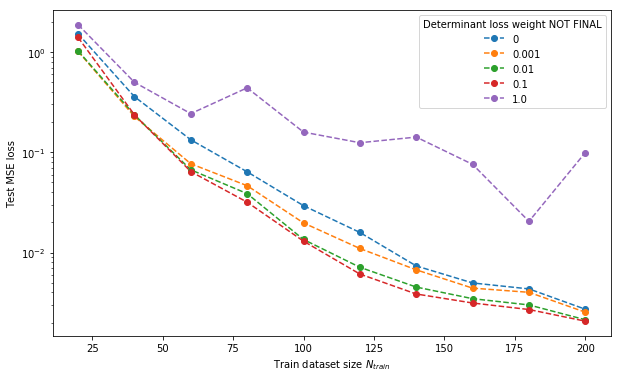
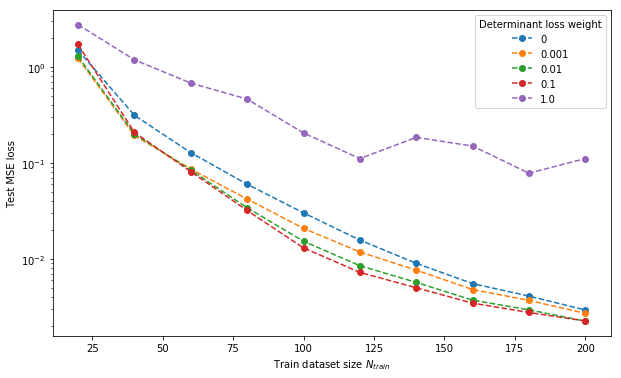
draft

diff --git a/TUM_Thesis/chapters/Results.tex b/TUM_Thesis/chapters/Results.tex
@@ -16,7 +16,7 @@ We can see that while the difference between the behaviours of Model 2 and 3 is 
 
 \subsection{Penalty method}
 \subsubsection{Fixed physical loss weight}
-First, we apply the Penalty Method using a fixed weight $\lambda$ for the determinant physical loss $\mathcal{L}_{DET}$ and therefore only solve a single minimisation problem during the training process. The results obtained by this method performing 50000 epochs on the 2D-Rotation problem are shown in Figure \ref{fig:pnlty_det}.
+First, we apply the Penalty Method using a fixed weight $\lambda$ for the determinant physical loss $\mathcal{L}_{DET}$ and therefore only solve a single minimisation problem during the training process. The results obtained by this method performing $50\,000$ epochs on the 2D-Rotation problem are shown in Figure \ref{fig:pnlty_det}.
 
 \begin{figure}[ht]
 	\includegraphics[width=\linewidth]{pnlty_det}
@@ -50,20 +50,20 @@ When analysing the version of the penalty method where we solve a series of mini
 	\caption{Different weights $\lambda$ for $\mathcal{L}_{DET}$ compared with dynamically increasing $\lambda$, averaged over 10 different training datasets.}
 	\label{fig:pnly_dyn}
 \end{figure}
-In general, we can say that it is difficult to find a successful set of parameters, since we only have an intuition about the initial and last value of $\lambda$. We manually tried several different parameter sets, of which many led to much worse performance than the results shown above. However, we were able to increase performance with the following values: We set $\lambda_0 = 10^{-3}$, $\mu = 1.05$, use 50 iterations and stop the k-th iteration once the norm of the gradient is smaller than $0.95^{k} 10^{-3}$. With this, we get a last weight value of $\lambda_{50} \approx 10^{-2}$. However, since solving a series of minimisation problems with the chosen parameters involves approximately $150k$ iterations, we also compare the results with using the fixed method for $150k$ iterations for different values taken by $\lambda$ during the dynamic training process. The results are illustrated in Figure \ref{fig:pnly_dyn}. We can see that the dynamic version outperforms the fixed Penalty Method by a significant margin for most training dataset sizes. For example, for 20 data points, the former achieves an error of $3.5\times 10^{-4}$, whereas the best fixed version only reaches twice the error of $7\times 10^{-4}$. Unfortunately, the improvement is not consistent and for 13 data points, the dynamic version only achieves $8.5 \times 10^{-3}$, whereas even the fixed Penalty Method with only 50000 iterations already achieves with a value of $4.3 \times 10^{-3}$ almost half of this error.
+In general, we can say that it is difficult to find a successful set of parameters, since we only have an intuition about the initial and last value of $\lambda$. We manually tried several different parameter sets, of which many led to much worse performance than the results shown above. However, we were able to increase performance with the following values: We set $\lambda_0 = 10^{-3}$, $\mu = 1.05$, use 50 iterations and stop the k-th iteration once the norm of the gradient is smaller than $0.95^{k} 10^{-3}$. With this, we get a last weight value of $\lambda_{50} \approx 10^{-2}$. However, since solving a series of minimisation problems with the chosen parameters involves approximately $150\,000$ iterations, we also compare the results with using the fixed method for $150\,000$ iterations for different values taken by $\lambda$ during the dynamic training process. The results are illustrated in Figure \ref{fig:pnly_dyn}. We can see that the dynamic version outperforms the fixed Penalty Method by a significant margin for most training dataset sizes. For example, for 20 data points, the former achieves an error of $3.5\times 10^{-4}$, whereas the best fixed version only reaches twice the error of $7\times 10^{-4}$. Unfortunately, the improvement is not consistent and for 13 data points, the dynamic version only achieves $8.5 \times 10^{-3}$, whereas even the fixed Penalty Method with only $50\,000$ iterations already achieves with a value of $4.3 \times 10^{-3}$ almost half of this error.
 
 As a summary, for the chosen parameters, the dynamic Penalty Method overall achieves higher performance than the fixed version. However, since it requires a multiple of the epochs needed by the fixed method and it is difficult to find a well performing set of parameters, we in general advise to use the simpler method using a fixed physical loss weight $\lambda$.
 
 \subsection{Augmented Lagrangian Method}
 
-We first apply the version which only computes a fixed number of epochs for each minimisation problem, and keep the weight $\lambda$ of the physical loss $\mathcal{L}_{DET}$ constant. Thus, it differs from the first version of the Penalty Method only in having the additional linear constraint violation term. Note that for ALM, this weight needs to be chosen significantly smaller than for the Penalty Method depending on the constraint violation, since the linear term is much higher relative to the squared constraint violation term for small violation values. Still, it is similarly difficult to find a good set of parameters as it is for the second version of the Penalty Method. We achieved reasonable performance computing 30 iterations with 5000 epochs each and a physical loss weight of $\lambda = 0.01$. The results are depicted in Figure \ref{fig:aug_lag} as "ALM fixed". In order to clearly extract the effect of incorporating ALM's core idea of including the linear constraint violation terms, we also include "ALM fixed (no linear)", which uses the same loss function, but omitting the linear terms. The results show that by using ALM with a good set of parameters, we can achieve even smaller error rates than the Penalty Method. For example, for 20 data points, the fixed ALM achieves an error of $3.9 \times 10^{-4}$, which is an improvement of $44\%$ compared to the error of $7 \times 10^{-4}$ of the Penalty Method, and also reduces the error by $24\%$ compared to its version which omits the linear term, which reaches an error of $5.1 \times 10^{-4} $\\
-\indent However, the improvements are not very consistent in the range between 10 and 15 training data points. Further, we have to note that the method again needs $150k$ epochs in total compared to the $50k$ epochs of the fixed Penalty Method in order to achieve comparable results. An example of the training and test loss after each iteration when applying the fixed ALM is shown in Figure \ref{fig:alm_fixed_training} in the Appendix. Since the Lagrangian multiplier estimates can be negative, we included the negative linear loss for the determinant as well.
+We first apply the version which only computes a fixed number of epochs for each minimisation problem, and keep the weight $\lambda$ of the physical loss $\mathcal{L}_{DET}$ constant. Thus, it differs from the first version of the Penalty Method only in having the additional linear constraint violation term. Note that for ALM, this weight needs to be chosen significantly smaller than for the Penalty Method depending on the constraint violation, since the linear term is much higher relative to the squared constraint violation term for small violation values. Still, it is similarly difficult to find a good set of parameters as it is for the second version of the Penalty Method. We achieved reasonable performance computing 30 iterations with $5\,000$ epochs each and a physical loss weight of $\lambda = 0.01$. The results are depicted in Figure \ref{fig:aug_lag} as "ALM fixed". In order to clearly extract the effect of incorporating ALM's core idea of including the linear constraint violation terms, we also include "ALM fixed (no linear)", which uses the same loss function, but omitting the linear terms. The results show that by using ALM with a good set of parameters, we can achieve even smaller error rates than the Penalty Method. For example, for 20 data points, the fixed ALM achieves an error of $3.9 \times 10^{-4}$, which is an improvement of $44\%$ compared to the error of $7 \times 10^{-4}$ of the Penalty Method, and also reduces the error by $24\%$ compared to its version which omits the linear term, which reaches an error of $5.1 \times 10^{-4} $\\
+\indent However, the improvements are not very consistent in the range between 10 and 15 training data points. Further, we have to note that the method also needs $150\,000$ epochs in total compared to the $50\,000$ epochs of the fixed Penalty Method in order to achieve comparable results. An example of the training and test loss after each iteration when applying the fixed ALM is shown in Figure \ref{fig:alm_fixed_training} in the Appendix. Since the Lagrangian multiplier estimates can be negative, we included the negative linear loss for the determinant as well.
 \begin{figure}[H]
 	\includegraphics[width=\linewidth]{aug_lag}
 	\caption{Comparison of ALM, Penalty Method and original training, averaged over 10 different random training datasets.}
 	\label{fig:aug_lag}
 \end{figure}
-Furthermore, Figure \ref{fig:aug_lag} depicts the results of applying the second version of ALM, again including the comparison with the same computation without the linear term in the loss function. As described in section \ref{exp:alm}, we need to determine even more parameters than we do for the first version of ALM or the Penalty Method. This makes it especially difficult to find good parameters, and we need to mention that throughout the process of finding a good parameter set, we have tried many values that led to significantly worse performance than the original model which does not incorporate any physical constraints at all. To get reasonable results, we chose the following parameters: To begin with, we set $\lambda_{0} = 10^{-3}$ and increased it by a factor of $1.05$ after each iteration. By computing 50 iterations, $\lambda$ increases by approximately one order of magnitude. In order to make use of the proposed idea of setting the gradient threshold to a minimum of a fixed value and one dependent on the constraint violation, we set $\gamma_k = 0.95^k\,10^{-1}$ and $\epsilon_k = 0.95^k\,10^{-3}$. These values were chosen after analysing the constraint violation values during training and set such that $\epsilon_k$ and $\gamma_k ||c(x_k)||$ have approximately the same order of magnitude. The achieved results using these parameters are similiar to the fixed ALM results, and again achieve smaller error rates than the corresponding training omitting the linear term. For 20 training data points, it achieves an error of $3.5\times 10^{-4}$, which is close to the $3.9 \times 10^{-4}$ achieved by the fixed ALM. Overall, this is an improvement of $86\%$ compared to the original model which does not incorporate phyiscal constraints and thus only reaches an error of $2.5\times 10^{-3}$. However, also this version of ALM does not perform consistently better than the Penalty Method. Furthermore, it needs at least $150k$ and up to $300k$ epochs to achieve these results. Detailed numbers and statistics on the explained experiment are given in the Appendix (Table \ref{table_stats_10} - \ref{table_stats_20}).\\
+Furthermore, Figure \ref{fig:aug_lag} depicts the results of applying the second version of ALM, again including the comparison with the same computation without the linear term in the loss function. As described in section \ref{exp:alm}, we need to determine even more parameters than we do for the first version of ALM or the Penalty Method. This makes it especially difficult to find good parameters, and we need to mention that throughout the process of finding a good parameter set, we have tried many values that led to significantly worse performance than the original model which does not incorporate any physical constraints at all. To get reasonable results, we chose the following parameters: To begin with, we set $\lambda_{0} = 10^{-3}$ and increased it by a factor of $1.05$ after each iteration. By computing 50 iterations, $\lambda$ increases by approximately one order of magnitude. In order to make use of the proposed idea of setting the gradient threshold to a minimum of a fixed value and one dependent on the constraint violation, we set $\gamma_k = 0.95^k\,10^{-1}$ and $\epsilon_k = 0.95^k\,10^{-3}$. These values were chosen after analysing the constraint violation values during training and set such that $\epsilon_k$ and $\gamma_k ||c(x_k)||$ have approximately the same order of magnitude. The achieved results using these parameters are similiar to the fixed ALM results, and again achieve smaller error rates than the corresponding training omitting the linear term. For 20 training data points, it achieves an error of $3.5\times 10^{-4}$, which is close to the $3.9 \times 10^{-4}$ achieved by the fixed ALM. Overall, this is an improvement of $86\%$ compared to the original model which does not incorporate phyiscal constraints and thus only reaches an error of $2.5\times 10^{-3}$. However, also this version of ALM does not perform consistently better than the Penalty Method. Furthermore, it needs at least $150\,000$ and up to $300\,000$ epochs to achieve these results. Detailed numbers and statistics on the explained experiment are given in the Appendix (Table \ref{table_stats_10} - \ref{table_stats_20}).\\
 \indent To understand the impact of ALM on how well the predictions align with the physical constraints, Figure \ref{fig:alm_det_analysis} depicts the absolute difference of the prediction norms and one, the absolute difference of the determinant of the predicted rotation matrix and one, and the corresponding MSE Loss. Note that results vary and Figure \ref{fig:alm_det_analysis} only depicts the values for 12 training data points and a single seed used to generate the training dataset.
 
 \begin{figure}[H]
@@ -73,7 +73,7 @@ Furthermore, Figure \ref{fig:aug_lag} depicts the results of applying the second
 \end{figure}
 
 As expected knowing the statistical performance of the methods, the deviations from the physical constraints are significantly smaller when we apply one of the proposed methods compared to the original training. Similar to the Penalty Method, both versions of the Augmented Lagragian Method lead to no constraint violations at points where training data is present. While the fixed ALM in this case generalises the physical constraints significantly better than the Penalty Method, the dynamic version achieves only comparable results. Despite, an interesting observation is the high MSE Loss average of the dynamic ALM, which exceeds with a value of 0.033 the error of all other methods significantly. Even the original model achieves an overall average of the MSE Loss of only 0.021. However, this is only due to the performance in the range of angles between 0 and 2, for the extrapolation of angles higher than 2.5, it performs much better than the original model. This is the case even though the determinant in the difficult region is much closer to one than the determinant of the prediction of the original model. This indicates that the ALM focused too much on learning the determinant constraint, since it is able to generalise the determinant constraint only at cost of the performance of the predictions for this specific case.\\
-\indent Furthermore, we want to point out that finding a good condition when to stop the training process is difficult. The test performance throughout the training process for different randomly generated training datasets is depcited in Figure \ref{fig:test_training}. When comparing the performance of the Penalty Method (left) with the Dynamic ALM (right), we can instantly see much higher deviations when using the latter method. For example, the test performance colored in blue reaches a test MSE Loss of less than $0.7\times 10^{-4}$, but only achieves an error of more than $3\times 10^{-2}$ when training has ended. In contrast, most of the test errors of using the Penalty Method converge and following epochs only lead to slight overfitting. This in turn indicates the high potential of ALM as well. As we can see, the best performance achieved often exceeds the final performance significantly. More sophisticated methods used to determine the hyperparameters of ALM  might therefore lead to much higher improvements compared to what we achieve with the current parameters. For three dimensions, we were not able to find a set of parameters leading to any improvements compared to the original model.
+\indent Furthermore, we want to point out that finding a good condition when to terminate the training process is difficult. The test performance throughout the training process for different randomly generated training datasets is depicted in Figure \ref{fig:test_training}. When comparing the performance of the Penalty Method (left) with the Dynamic ALM (right), we can instantly see much higher deviations when using the latter method. For example, the test performance colored in blue reaches a test MSE Loss of less than $0.7\times 10^{-4}$, but only achieves an error of more than $3\times 10^{-2}$ when training has ended. In contrast, most of the test errors of using the Penalty Method converge and following epochs only lead to slight overfitting. This in turn indicates the high potential of ALM as well. As we can see, the best performance achieved often exceeds the final performance significantly. More sophisticated methods used to determine the hyperparameters of ALM  might therefore lead to much higher improvements compared to what we achieve with the current parameters. For three dimensions, we were not able to find a set of parameters leading to any improvements compared to the original model.
 \begin{figure}
 	\centering
 	\begin{subfigure}{.5\textwidth}

diff --git a/TUM_Thesis/chapters/Experiment.tex b/TUM_Thesis/chapters/Experiment.tex
@@ -10,7 +10,7 @@ Since it can be difficult to break down the effects utilising physical constrain
 \end{itemize}
 
 \subsection{Problem formulation}
-In order to show these improvements, we incorporate the knowledge about physical constraints into the problem of learning a rotation in two and three dimensions. We chose this problem, since it satisfies both the existence of physical constraints and the required simplicity to gain insights on the effects of the different methods of utilising physical constraints. Formally, a rotation maps a point and the rotation angles to a target point:
+In order to show these improvements, we incorporate the knowledge about physical constraints into the problem of learning a rotation in two and three dimensions. We chose this problem, since it satisfies both the existence of physical constraints and the required simplicity to gain insights on the effects of the different methods of utilising physical constraints. Formally, a rotation maps a point and rotation angles to a target point:
 \[rot: \mathbb{R}^{d} \times [- \pi, \pi] ^{d-1} \to \mathbb{R}^{d} \text{, where $d$ is the dimension of the domain space.} \]
 For example, the rotation in two dimension can be described in the following way:
 \[rot_{2D}: \mathbb{R}^{2} \times [- \pi, \pi]  \to \mathbb{R}^{2},\,\, rot_{2D}(x, \alpha) = R_{2D}(\alpha) \,x, \]
@@ -45,7 +45,7 @@ A commonly used loss function is the Mean Squared Error (MSE), which is calculat
 \indent All models will be trained using the MSE between the predictions and the target points. Minimising the MSE loss function fits well for our experiment, since it is closely related to the euclidian distance, except that distances are squared. This leads to high values for distant predictions and thus penalises higher variance of the errors of the predictions, which is desirable.\\ 
 
 \subsection{Performance evaluation}
-For the same reason we choose the MSE Loss as the training loss, we also evaluate the performance of the different models and methods according to the MSE. Despite the MSE being a good measure for the distance between the predictions and the target point, it does not measure how well the predictions of the model align with the given physical constraints. In order to check how realistic the predictions are, we explicitely compare their norms and determinants.\\
+For the same reason as we chose the MSE Loss as the training loss, we also evaluate the performance of the introduced models and methods according to the MSE. Despite the MSE being a good measure for the distance between the predictions and the target point, it does not measure how well the predictions of the model align with the given physical constraints. In order to check how realistic the predictions are, we explicitely compare their norms and determinants.\\
 
 \subsection{Network architectures}
 \label{ssec:network_architectures}
@@ -62,7 +62,7 @@ where $\alpha$ is the rotation angle and $x$ the point to be rotated.
 
 \paragraph{Model 3:} Similar to the previous model, we also try to solve the problem using an independent neural network for each of the $d \times d$ matrix entries. Each of these networks maps the rotation angles of size $d-1$ to a single real number, which is interpreted as a single matrix entry. For these networks, we use one hidden layer of size 50, again including bias and applying the Simoid activation function.\\
 
-\indent In order to achieve undistorted comparisons of the models, they were designed to each have between 600 and 650 parameters.
+\indent In order to achieve undistorted comparisons of the models, they were designed to have between 600 and 650 parameters each.
 
 \subsection{Hyperparameters}
 For all experiments, we choose to use the Adaptive Moment Estimator "Adam" as our optimiser, since it empirically appeared to perform well in practice and is favourable to other known adaptive learning-method algorithms \cite{DBLP:journals/corr/Ruder16}. Furthermore we will use a learning rate of $5\times 10^{-5}$ and train each model using $50000$ iterations. Both of these parameters are empirically estimated, a comparison of using different learning rates on Model 3 can be found in the appendix (\ref{fig:comp_lr_m3}). For all experiments, we use a batch size of 512 and shuffle the training set at the start of each epoch.
@@ -110,7 +110,7 @@ For the determinant, we only divide the matrix by the $d$-th root of the determi
 Since matrices with negative determinants are far away from the true rotation matrix, they should not occur often or if so, be corrected by solely training on the MSE-Loss for the prediction and the target point. 
 
 \subsection{Statistical measurements}
-Each experiment will be tested on 20 different seeds used to generate the training data, with a few exceptions due to time limitations. If not otherwise specified, we compare the models' performances according to the mean of the MSEs of the individual runs. We prefer the mean over the median, because we are also interested in the performance of outliers that lead to poor results. The test set on which each model's performance is calculated consinsts of 4096 data points sampled in the same manner as the training dataset.\\
+Each experiment will be tested on 20 different seeds used to generate the training data, with a few exceptions due to time limitations. If not otherwise specified, we compare the performance of the models according to the mean of the MSEs of the individual runs. We prefer the mean over the median, because we are also interested in the performance of outliers that lead to poor results. The test set on which each model's performance is calculated consinsts of 4096 data points sampled in the same manner as the training dataset.\\
 
 
 

diff --git a/TUM_Thesis/chapters/TheoreticalBackground.tex b/TUM_Thesis/chapters/TheoreticalBackground.tex
@@ -65,7 +65,7 @@ The proof to Theorem \ref{theorem:kkt} is quite complex and can be found in \cit
 %\end{proof}
 
 \subsection{Solving strategies}
-In the following, we present two strategies to solve constrained optimisation problems. We begin with discussing the Penalty Method and follow with the Augmented Lagrangian Method. Both methods are based on the previsouly introduced idea of Lagrangian Relaxation.
+In the following, we present two strategies to solve constrained optimisation problems. We first discuss the Penalty Method and continue with the Augmented Lagrangian Method. Both methods are based on the previsouly introduced idea of Lagrangian Relaxation.
 \subsubsection{Penalty Method}
 The first approach we introduce is the Penalty Method. As the name suggests, we penalise constraint violations, thus favoring feasable solutions. It differs from the Lagrangian Relaxation by not taking constraints into account that are satisfied, thus leaving the values of $f$ in the feasable region unchanged. Also it penalises constraint violations quadratically.\\
 \indent The approach is to solve a series of minimisation problems of the form
@@ -85,7 +85,7 @@ In the following, we prove that the Penalty Method converges to an optimal solut
 	f(\overline{x}) + \lambda \sum_{i \in \mathcal{I}} (c_i^{-}(\overline{x}))^2 =
 	f(\overline{x})
 	\end{equation}
-	From this expression, we can now optain a upper bound on the constraint values, that is
+	From this expression, we can now optain an upper bound on the constraint values, that is
 	\begin{equation}
 	\label{eq:pnlty_ineq2}
 	\sum_{i \in \mathcal{I}} (c_i^{-}(x_k))^2 \leq \frac{1}{\lambda} (f(\overline{x}) - f(x_k)).
@@ -130,7 +130,7 @@ In general, the Augmented Lagrangian Method can be interpreted as a combination 
 \subsection{Related work}
 Previously to this work, researches have published various approaches to solve constrained optimisation problems using deep learning models. One intuitive method is the so-called Projected Gradient Descent (PGD). As the name indicates, it projects the current iterate $y_k$ to the closest feasable solution $x_k \in \mathcal{F}$. Thus in case of the Euclidean projection, it solves the following problem in each iteration:
 \[ x_k = \argmin_{x \in F} ||x - y_k||, \]
-where $y_k$ is calculated according to Gradient Descent with learning rate $\eta$, that is, $y_{k+1} = x_k - \eta \Delta f(x_{k})$ \cite{Chen}. This idea was also mixed with the Adam optimiser to keep the benefits of tracking momentum and adaptive learning rates by Marquez-Neila et al. in \cite{DBLP:journals/corr/Marquez-NeilaSF17}. Even though this procedure assures that all iterates are feasable and yields good results, projections are often hard to compute when solving constrained problems with nonlinear constraints. \\
+where $y_k$ is calculated according to Gradient Descent with learning rate $\eta$, that is, $y_{k+1} = x_k - \eta \Delta f(x_{k})$ \cite{Chen}. This idea was also mixed with the Adam optimiser to keep the benefits of tracking momentum and adaptive learning rates by Marquez-Neila et al. in \cite{DBLP:journals/corr/Marquez-NeilaSF17}. Even though this procedure assures that all iterates are feasable and it yields good results, projections are often hard to compute when solving constrained problems with nonlinear constraints. \\
 \indent As an alternative, Frank and Wolfe proposed an algorithm referred to as Conditional Gradients or Frank-Wolfe Algorithm in \cite{doi:10.1002/nav.3800030109}. Starting from the current iterate $x_k$ and a learning rate $\eta$, $x_{k+1}$ is obtained as follows:
 \begin{subequations}
 	\label{eq:frankwolfe}
@@ -139,7 +139,7 @@ where $y_k$ is calculated according to Gradient Descent with learning rate $\eta
 		x_{k+1} &= (1-\eta) x_k + \eta s_k.
 	\end{align}
 \end{subequations}
-This means that the direction is obtained by going towards the point in the feasable set which aligns with the negative gradient most. The algorithm was also extended to the stochastic setting by Reddi et al. in \cite{Reddi2016StochasticFM}. Moreover, it has already been successfully applied to Computer Vision tasks such as 3D human pose estimation from a single view in \cite{DBLP:journals/corr/abs-1803-06453}. Despite the fact that the Frank-Wolfe Algorithm is projection-free, the computation of $s_k$ as described in \ref{frankwolfe1} can again be difficult to solve when applied to a constrained problem with nonlinear constraints. Therefore, we focus our work on methods which do not incorporate hard constraints, but instead add soft constraints to the problems to be optimised.
+This means that the direction is obtained by going towards the point in the feasable set which aligns with the negative gradient most. The algorithm was also extended to the stochastic setting by Reddi et al. in \cite{Reddi2016StochasticFM}. Moreover, it has already been successfully applied to Computer Vision tasks such as 3D human pose estimation from a single view in \cite{DBLP:journals/corr/abs-1803-06453}. Despite the fact that the Frank-Wolfe Algorithm is projection-free, the computation of $s_k$ as described in equation \ref{frankwolfe1} can also be difficult to solve when applied to a constrained problem with nonlinear constraints. Therefore, we focus our work on methods which do not incorporate hard constraints, but instead add soft constraints to the problems to be optimised.
 
 
 \clearpage

diff --git a/TUM_Thesis/chapters/Introduction.tex b/TUM_Thesis/chapters/Introduction.tex
@@ -2,8 +2,8 @@
 \label{section:introduction}
 \section{Introduction}
 
-In recent years, deep learning models have proven to perform well in a wide range of applications, many of which include working with real world data. For example, Neural Networks have successfully been applied to the task of image classification \cite{NIPS2012_4824}, modeling lake temperature \cite{DBLP:journals/corr/abs-1710-11431} and fluid dynamics \cite{DBLP:journals/corr/SinghMD16}. Traditionally, such tasks have either not been possible at all or otherwise simulated by hand-crafted models \cite{Cursi2005PhysicallyCN}. The latter were designed in a way to align with physical principles, such as gravity, the conservation of energy, or Newton's laws. This leads to high precision and avoids the problem of generalisation, since the theories are assumed to be true accross the whole domain space. Nevertheless, manually building models requires intense effort and domain knowledge, and their performance may suffer from flawed parameter estimates or theories. In contrast, deep learning models do not rely on correctly understanding the complex underlying system structure. They can simply learn the behaviour from previously observed data. Furthermore, the latter outperform hand-crafted models in speed and can be applied even when no scientific theories are known. However, this comes at a high cost of requiring large amounts of training data for data-driven models to create realistic predictions aligning with physical principles. In addition, the data has to be spread accross the whole domain space, which is often not the case. A lack of data in one region will already lead to unrealistic model predictions in that area, since the deep learning model does not specifically learn the physical rules and can therefore not generalise well.\\
-\indent This raises the question, whether we can combine the scientific knowledge and the power of deep learning models in order to achieve more realistic results. Instead of purely relying on data, we can actively train the network to align its predictions with known physical principles. This could improve generalisation, help to decrease the amount of data required and to create more realistic predictions.\\
+In recent years, deep learning models have proven to perform well in a wide range of applications, many of which include working with real world data. For example, Neural Networks have successfully been applied to the task of image classification \cite{NIPS2012_4824}, modeling lake temperature \cite{DBLP:journals/corr/abs-1710-11431} and fluid dynamics \cite{DBLP:journals/corr/SinghMD16}. Traditionally, such tasks have either been impossible or otherwise simulated by hand-crafted models \cite{Cursi2005PhysicallyCN}. The latter were designed in a way to align with physical principles, such as gravity, the conservation of energy, or Newton's laws. This leads to high precision and avoids the problem of generalisation, since the theories are assumed to be true accross the whole domain space. Nevertheless, manually building models requires intense effort and domain knowledge, and their performance may suffer from flawed parameter estimates or theories. In contrast, deep learning models do not rely on correctly understanding the complex underlying system structure. They can simply learn the behaviour from previously observed data. Furthermore, data-driven models outperform hand-crafted models in speed and can be applied even when no scientific theories are known. However, this comes at the high cost of requiring large amounts of training data for data-driven models to create realistic predictions aligning with physical principles. In addition, the data has to be spread accross the whole domain space, which is often not the case. A lack of data in one region will already lead to unrealistic model predictions in that area, since the deep learning model does not specifically learn the physical rules and can therefore not generalise well.\\
+\indent This raises the question, whether we can combine the scientific knowledge and the power of deep learning models in order to achieve more realistic results. Instead of purely relying on data, we can actively train the network to align its predictions with known physical principles. This could improve generalisation, help to create more realistic predictions and decrease the required amount of training data.\\
 
 
 \clearpage

diff --git a/TUM_Thesis/chapters/Discussion.tex b/TUM_Thesis/chapters/Discussion.tex
@@ -2,7 +2,7 @@
 \label{section:discussion}
 \section{Discussion}
 
-To conclude this thesis, we summarise the main results of incorporating physical constraints into deep learning models. First of all, we empirically showed that the knowledge about scientific principles, when correctly maken use of, can improve overall performance significantly and also helps to make predictions more realistic. However, since this was only possible using the determinant and not with the norm constraint, we saw that there is no such guarantee for all physical constraints. One might reason that principles that reveal more complicated underlying structures of the process such as the determinant of a rotation matrix lead to higher improvements, since they are otherwise hard to learn. This is especially true when only few training data is available. We were also able to show that the proposed methods lead to smaller training error in regions where training data is sparse.\\
+To conclude this thesis, we summarise the main results of incorporating physical constraints into deep learning models. First of all, we empirically showed that the knowledge about scientific principles, if correctly incorporated, can improve overall performance significantly and also helps to make predictions more realistic. However, since this was only possible using the determinant and not with the norm constraint, we saw that there is no such guarantee for all physical constraints. One might reason that principles that reveal more complicated underlying structures of the process such as the determinant of a rotation matrix lead to higher improvements, since they are otherwise difficult to learn. This is especially true when only few training data is available. We were also able to show that the proposed methods lead to smaller training error in regions where training data is sparse.\\
 \indent When comparing the Penalty Method to the Augmented Lagrangian Method, it is important to note that even though ALM leads to higher performance and showed high potential when terminating training at the right time, there are currently no known methods to the author that estimate hyperparameters well. Since the Penalty Method is easy to understand   and to implement, robust to the physical loss weight and requires less epochs, we advice to first apply this method and only search for good ALM hyperparameters once applying the Penalty Method has shown improvements. Furthermore, we were not able to yield improvements using the method of Physical Projections on any constraint.\\
 \indent For future studies, we suggest to explore ways to find better parameters for ALM leading to more consistent results and requiring less training iterations. Furthermore, one might train the model on simulated unsupervised data to align its predictions with physical constraints in regions where no training data exists.
 

diff --git a/TUM_Thesis/components/abstract.tex b/TUM_Thesis/components/abstract.tex
@@ -14,4 +14,4 @@
 
 
 Nowadays, deep learning models are applied in a wide range of different tasks, often working with real world data. They have replaced a variety of hand-crafted models, since they are faster, easier to create, and can be used even when theoretical knowledge is sparse. However, for the predictions of data-driven models to align with theoretical constraints, such as the laws of physics, large amounts of training data covering the whole domain space are required. This raises the question, whether we have to purely rely on data to learn the mathematical theories which scientists have found and experimentally validated over many years. \\
-\indent In this thesis, we examine and experiment with different approaches to incorporate knowledge of physical constraints into deep learning models. In particular, we analyse the Penalty Method and Augmented Lagrangian Method. In addition, we inspect the results when projecting predictions according to physical constraints during training. The benefits of these approaches are validated on the task of predicting a rotation in two and three dimensions with the constraints on the determinant of the rotation matrix and the preservation of the norm. We confirm that the methods lead to higher overall performance already for small training datasets and produce more realistic predictions in regions where no or only few training data is available.
+\indent In this thesis, we examine and experiment with different approaches to incorporate knowledge of physical constraints into deep learning models. In particular, we analyse the Penalty Method and Augmented Lagrangian Method. In addition, we inspect the results when projecting predictions according to physical constraints during training. The benefits of these approaches are validated on the task of predicting a rotation in two and three dimensions with the constraints on the determinant of the rotation matrix and the preservation of the norm. We confirm that the methods lead to higher overall performance even for small training datasets and produce more realistic predictions in regions where no or only few training data is available.
